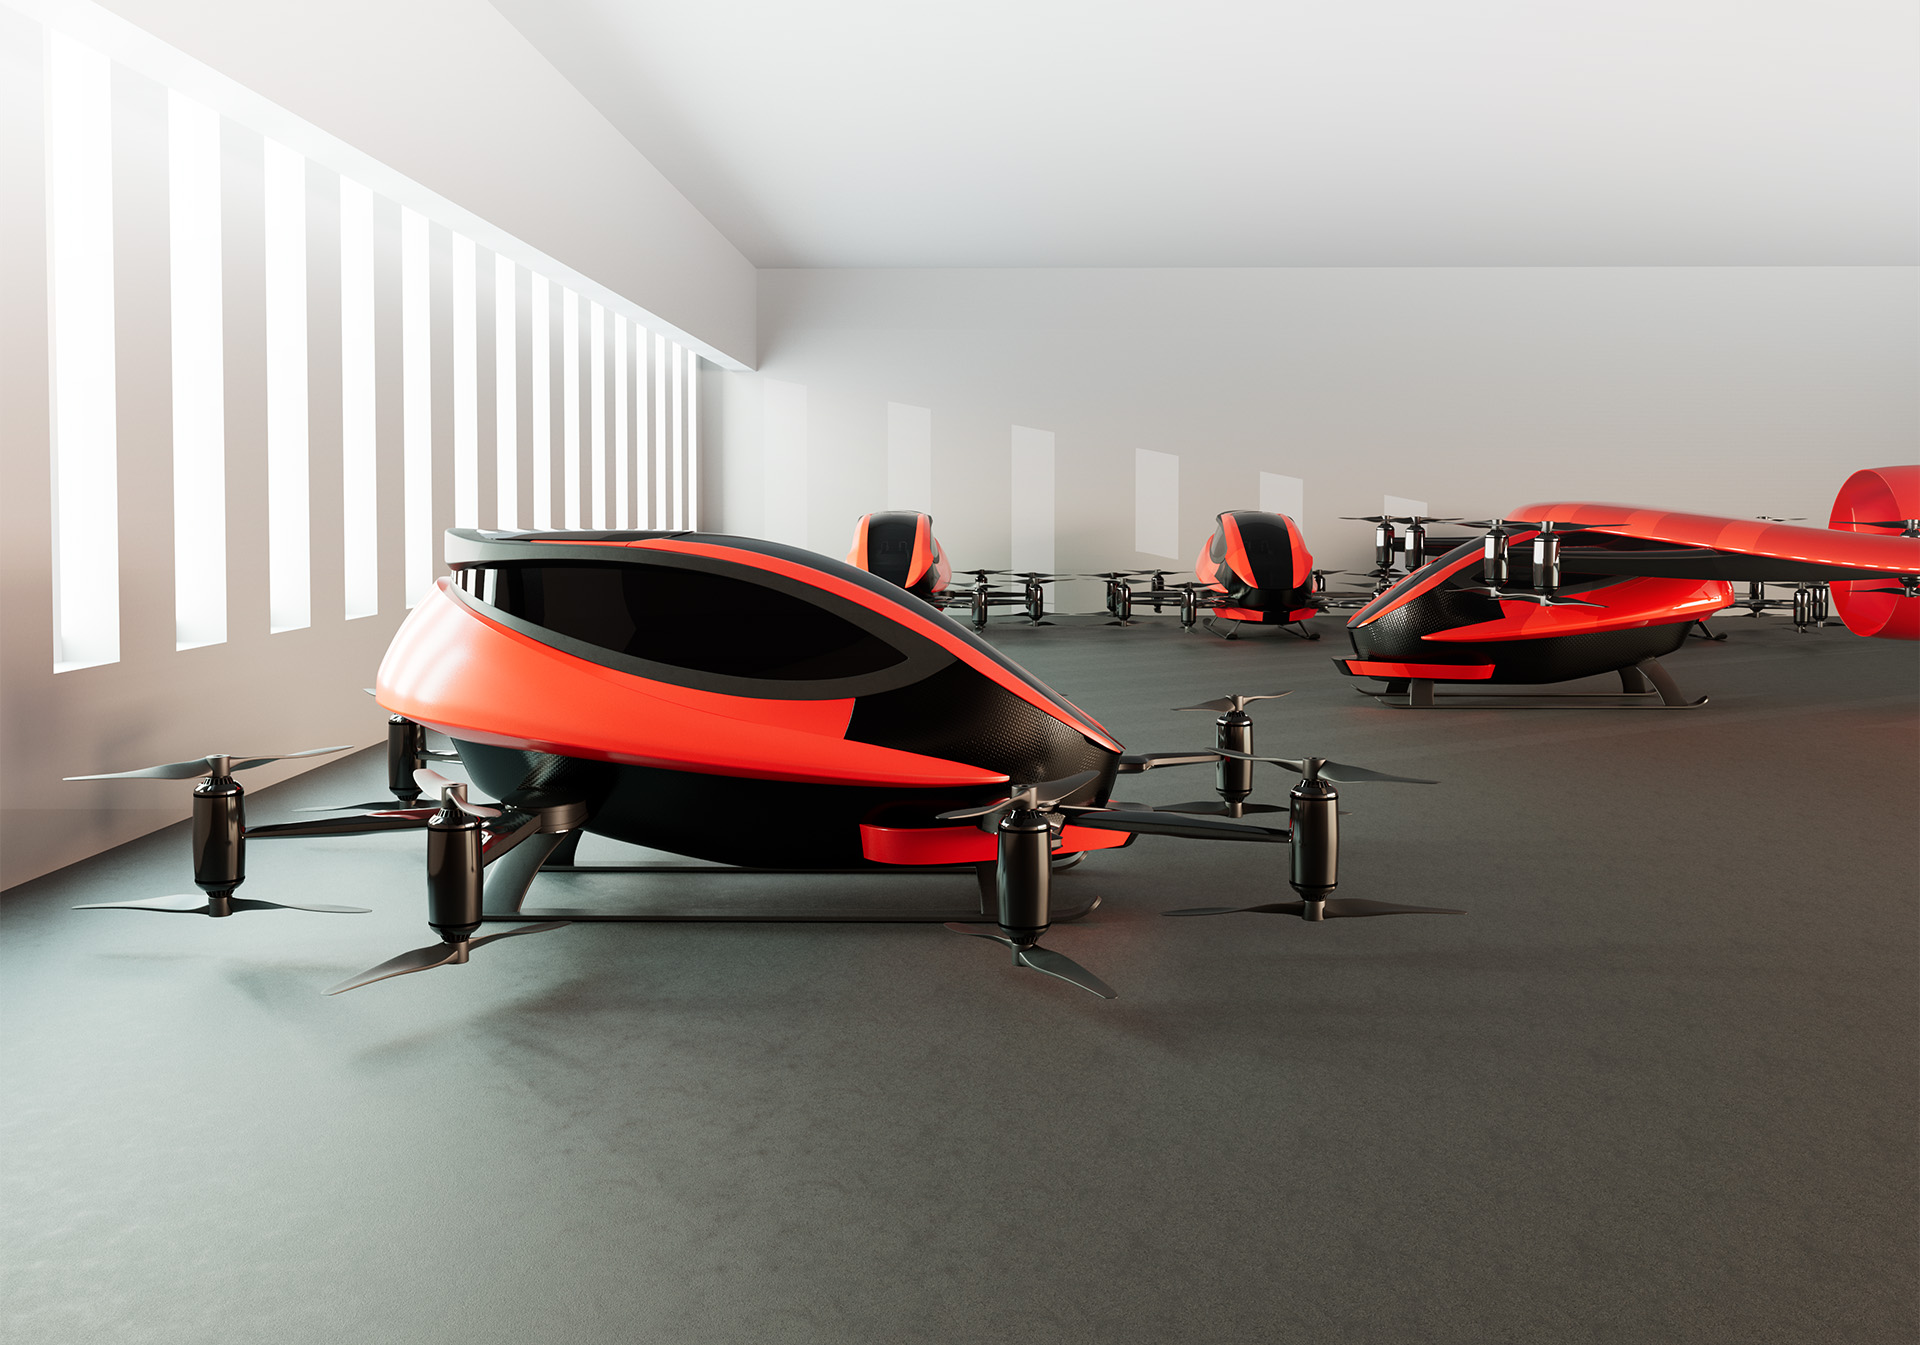
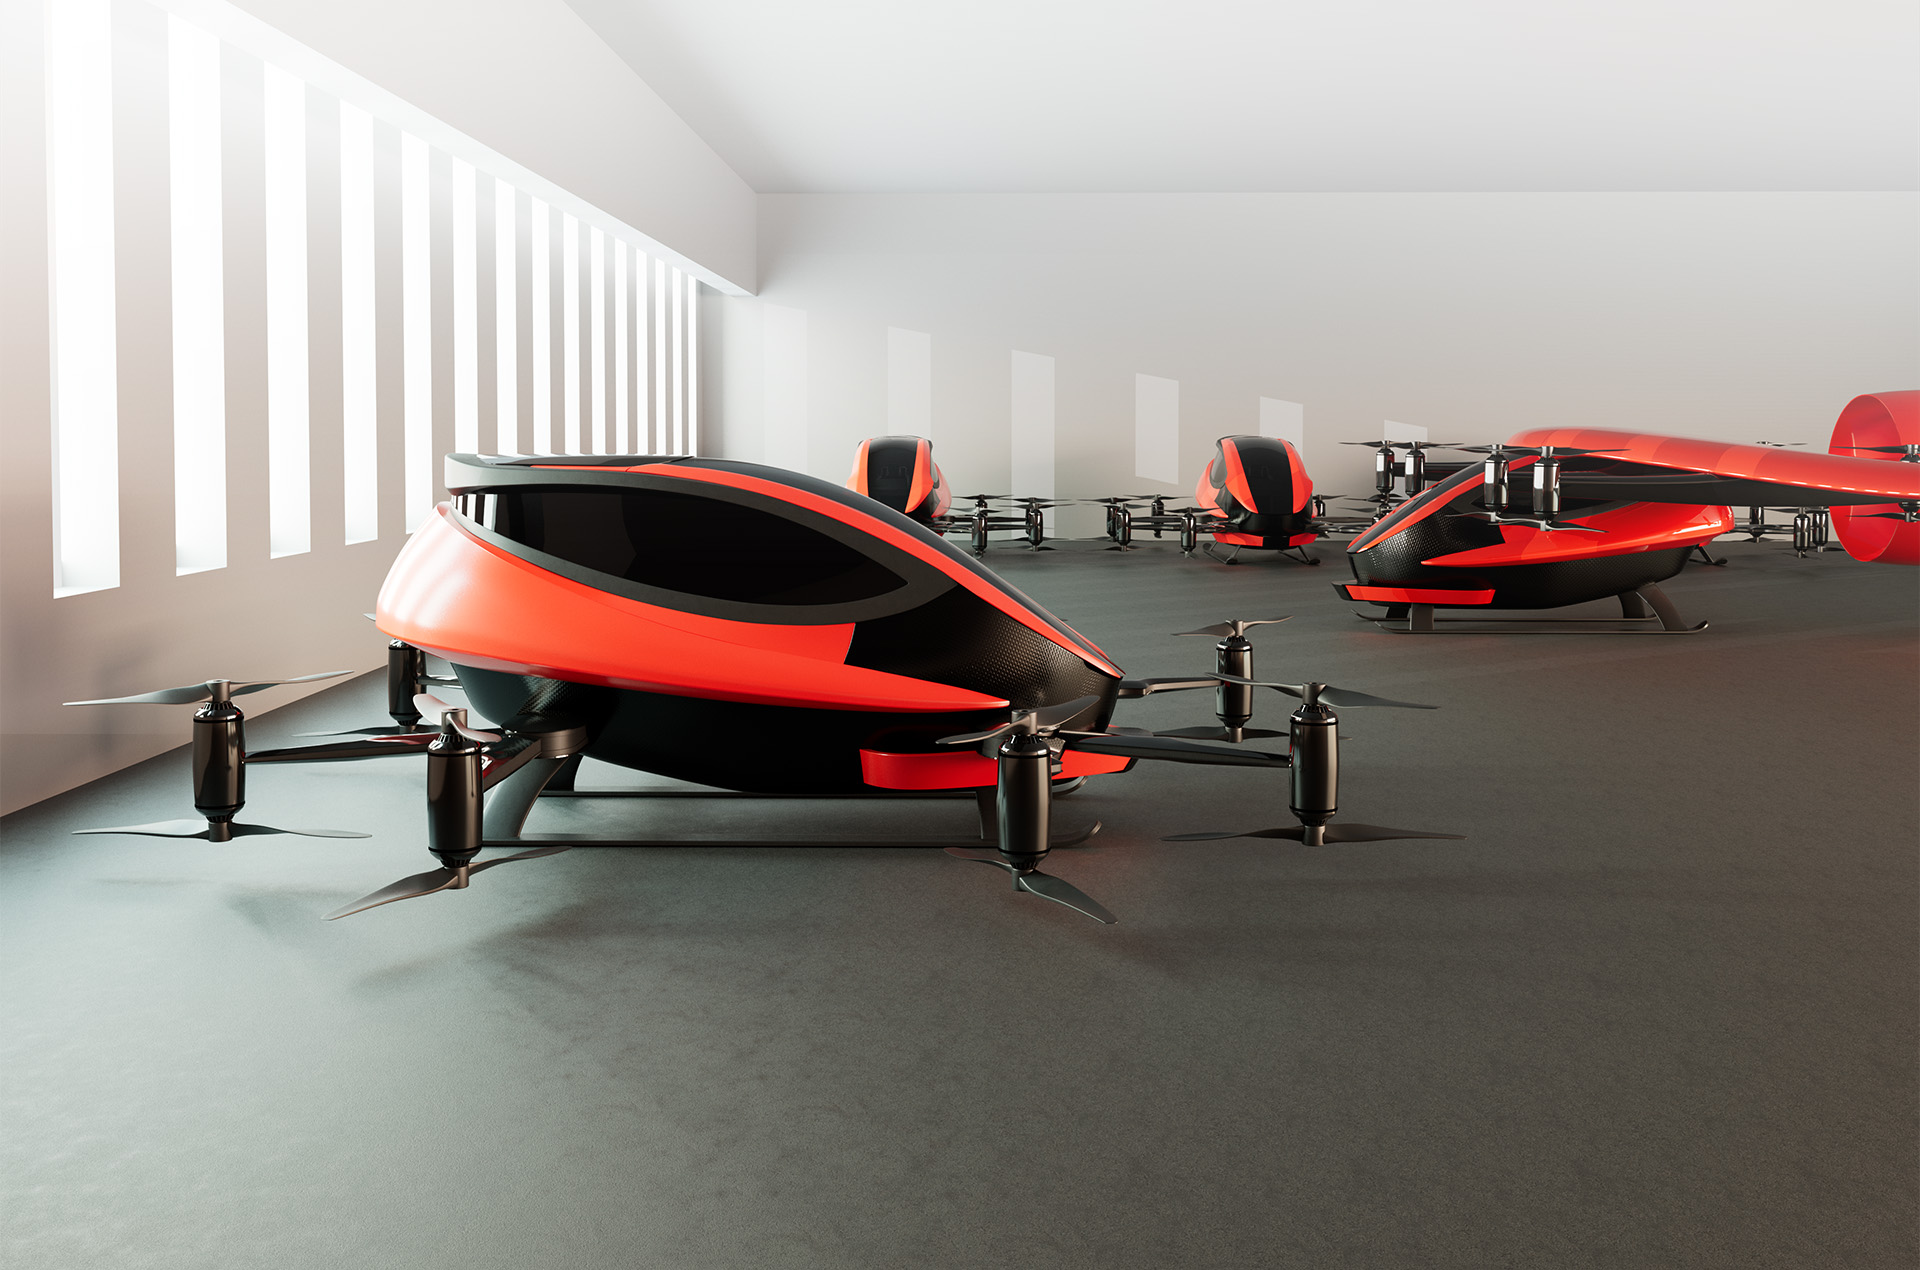
Mobile Layout Fix on Tech Page

Changed region(s): [[0.0, 0.3071, 1.0, 0.7677], [0.2188, 0.1228, 0.4688, 0.2764], [0.1562, 0.0921, 0.2188, 0.1228]]

diff --git a/app/globals.scss b/app/globals.scss
@@ -942,9 +942,9 @@ h6, .h6, h5, .h5, h4, .h4, h3, .h3, h2, .h2, h1, .h1 {
 
 .ports-section {
 	width: 100%;
-	min-height: 80rem;
+	min-height: 70rem;
 	background-image: url("../public/images/technology/ports.jpg");
-	background-position: 50% 0;
+	background-position: 50% 0%;
 	background-repeat: no-repeat;
 	background-size: cover;
 
@@ -957,18 +957,22 @@ h6, .h6, h5, .h5, h4, .h4, h3, .h3, h2, .h2, h1, .h1 {
 	}
 }
 
+@include media-breakpoint-down(md) {
+	.ports-section {
+		min-height: 100vh;
+	}
+}
+
 .port-icon-item {
 	display: flex;
 	flex-direction: row;
 	align-items: center;
 	border-radius: var(--bs-border-radius-lg);
-	max-width: 14rem;
-	min-width: 14rem;
 	min-height: 1rem;
 	background-color: rgba($color: #ffffff, $alpha: 0.1);
 	padding: 0.5rem;
-	max-width: 25rem;
-	min-width: 25rem;
+	max-width: 17rem;
+	min-width: 17rem;
 
 	.icon {
 		font-size: 2.5rem;
@@ -986,5 +990,20 @@ h6, .h6, h5, .h5, h4, .h4, h3, .h3, h2, .h2, h1, .h1 {
 		overflow: hidden;
 
 		text-align: left;
+	}
+}
+
+@include media-breakpoint-down(sm) { 
+	.port-icon-item {
+		flex-direction: column;
+		max-width: 100%;
+		min-width: 100%;
+		text-align: center;
+		padding-bottom: 1rem;
+	}
+
+	.control-icon-item {
+		max-width: 100%;
+		min-width: 100%;
 	}
 }